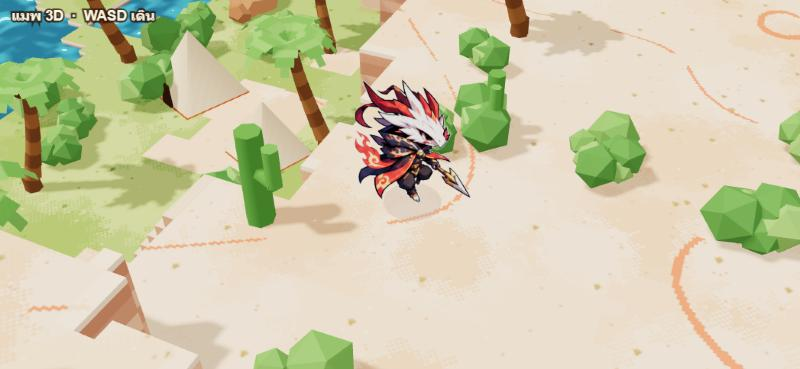
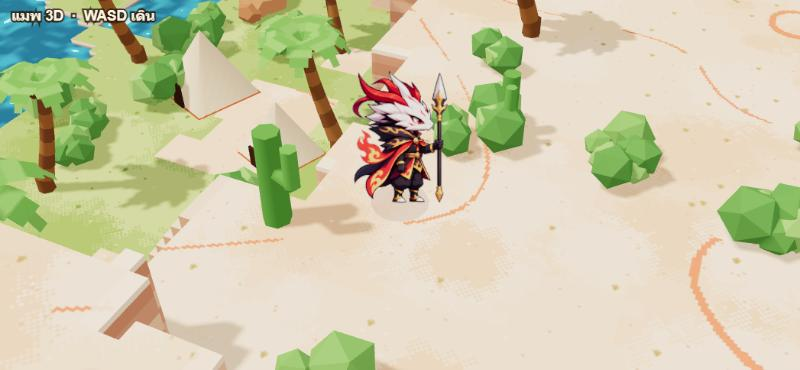
pixmap: dragon hero from Codex's painted base picture

diff --git a/pixmap.html b/pixmap.html
@@ -278,10 +278,10 @@ const HERO = { x: N * .27 + 3, z: N * .66 + 6.5, y: 0, face: 0, mixer: null, act
 { let best = null, bd = 1e9; for (let z = 2; z < N - 2; z++) for (let x = 2; x < N - 2; x++) { const c = id(x, z); if (K[c] !== 0 || STAIR[c] >= 0) continue; let open = true; for (let dz = -1; dz <= 1; dz++) for (let dx = -1; dx <= 1; dx++) if (K[id(x + dx, z + dz)] !== 0 || L[id(x + dx, z + dz)] !== L[c]) open = false;
     const d = Math.hypot(x - (N * .27 + 9), z - (N * .66 + 1)); if (open && d < bd) { bd = d; best = [x + .5, z + .5]; } }
   if (best) [HERO.x, HERO.z] = best; HERO.y = groundH(HERO.x, HERO.z); CAM.look.set(HERO.x * WS, HERO.y * WS + .5, HERO.z * WS); }   /* world units: the camera starts on the hero (no fly-over) */
-/* hero card: [picture, width, height in map texels (1/32 unit), faces left, smooth]. Default = the dragon spear warrior, PAINTED 2D (owner's original
-   picture for now; Codex is drawing his move sheets), drawn smooth (linear filter); ?hero=tiger = the pixel tiger (?tiger=jump|stand|snap) */
+/* hero card: [picture, width, height in map texels (1/32 unit), faces left, smooth]. Default = the dragon spear warrior, PAINTED 2D (Codex's base picture
+   `art/incoming/dragon_moves/base_side.png` cut + 512 px tall, faces right; walk frames next), drawn smooth (linear filter); ?hero=tiger = the pixel tiger (?tiger=jump|stand|snap) */
 const HK = Q.get('hero') || 'dragon';
-const TF = HK === 'dragon' ? ['art/pixmap/dragon_2d.png', 79, 84, true, true]
+const TF = HK === 'dragon' ? ['art/pixmap/dragon_2d.png', 65, 90, false, true]
   : { jump: ['art/pixmap/tiger.png', 64, 64], stand: ['art/pixmap/tiger_stand.png', 52, 66], snap: ['art/pixmap/tiger8.png', 67, 79] }[Q.get('tiger')] || ['art/pixmap/tiger8_pl.png', 65, 78];   /* tiger default = the owner's GPT 8-bit standing tiger tidied by PixelLab */
 const TIGER = HK !== 'ranger' ? (() => { const t = new THREE.TextureLoader().load(TF[0]); t.encoding = THREE.sRGBEncoding; t.wrapS = THREE.RepeatWrapping;
   if (TF[4]) { t.magFilter = THREE.LinearFilter; t.minFilter = THREE.LinearMipMapLinearFilter; t.anisotropy = 4; } else { t.magFilter = t.minFilter = THREE.NearestFilter; t.generateMipmaps = false; }
